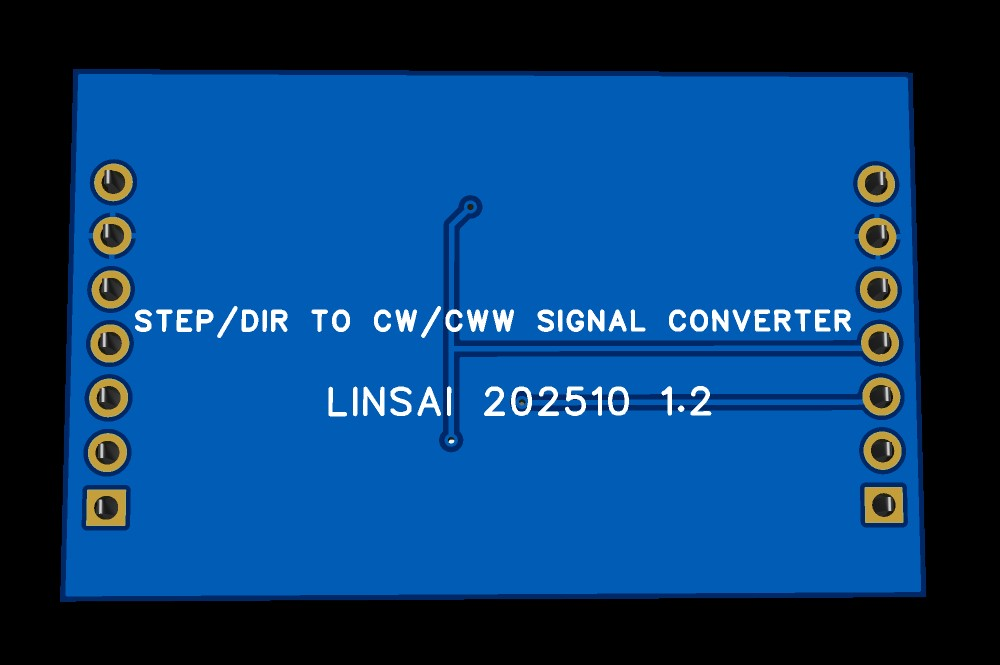
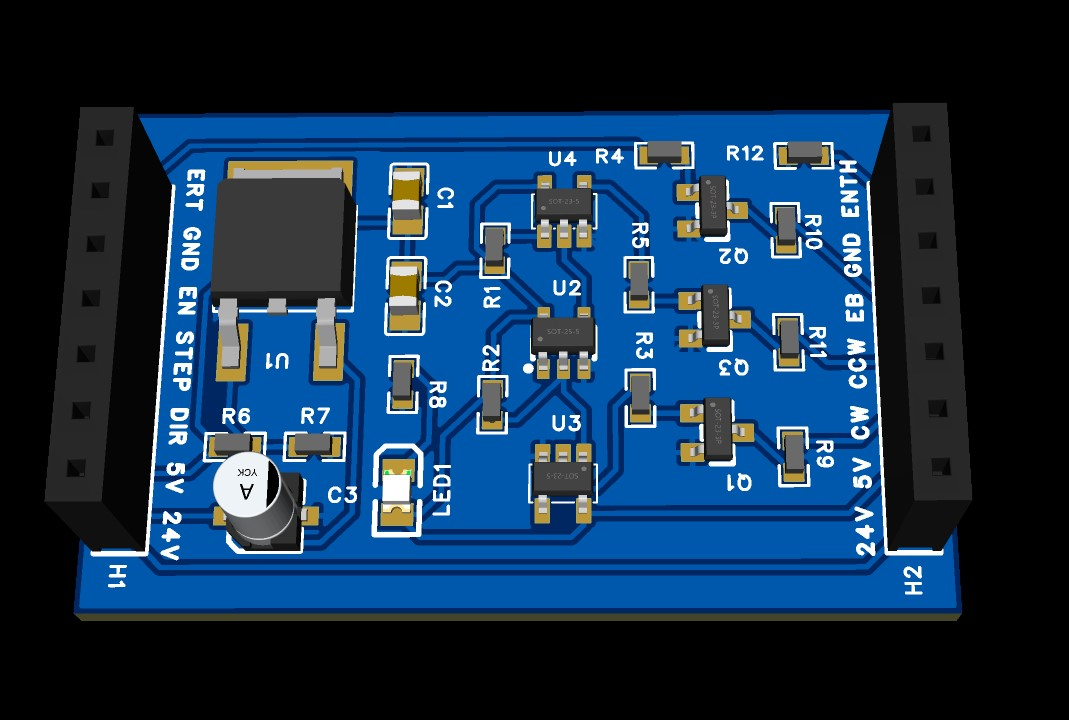
123

diff --git a/product-standalone-4axis-controller.html b/product-standalone-4axis-controller.html
@@ -3,7 +3,7 @@
 <head>
     <meta charset="UTF-8">
     <meta name="viewport" content="width=device-width, initial-scale=1.0">
-    <title>高压差分采样模块 | LINSAI</title>
+    <title>桌面激光加工机 | LINSAI</title>
     <style>
         /* ===== 全局样式 (保留原有并补充轮播图样式) ===== */
         * { margin:0; padding:0; box-sizing:border-box; }
@@ -223,7 +223,7 @@
         </div>
     </header>
 
-    <main class="container"> <!-- 添加container以对齐内容 -->
+    <main class="container">
         <div class="product-detail">
             <!-- 左侧：轮播图区域 (替换原单张图片) -->
             <div class="product-gallery">
@@ -240,33 +240,37 @@
 
             <!-- 右侧：产品信息 (完全保留) -->
             <div class="product-info">
-                <h1>高压差分采样模块</h1>
-                <p class="product-price-large">¥125,000</p>
+                <h1>桌面激光加工机</h1>
+                <p class="product-price-large">¥180,000</p>
                 <div class="product-description">
-                    <p>高電圧回路の電圧・電流を安全に測定するための差動サンプリングモジュール。オシロスコープやデータロガーと組み合わせて使用します。</p>
+                    <p>コンパクトなデスクトップ型レーザー加工機。アクリル、木材、皮革、紙などの非金属材料の切断・彫刻が可能です。</p>
+                    <p>初心者でも簡単に使えるソフトウェア付属。教育機関、個人クリエイター、試作開発に最適です。</p>
                 </div>
 
                 <div class="product-specs">
                     <h2>主な仕様</h2>
-                    <table class="spec-table"> <!-- 增加spec-table类 -->
-                        <tr><th>測定電圧範囲</th><td>±1000V（差動）</td></tr>
-                        <tr><th>帯域幅</th><td>DC～10MHz</td></tr>
-                        <tr><th>減衰比</th><td>100:1 / 1000:1 切替</td></tr>
-                        <tr><th>絶縁耐圧</th><td>2000V</td></tr>
+                    <table class="spec-table">
+                        <tr><th>レーザー出力</th><td>10W</td></tr>
+                        <tr><th>加工エリア</th><td>300×300 mm</td></tr>
+                        <tr><th>最大加工速度</th><td>200 mm/s</td></tr>
+                        <tr><th>解像度</th><td>1000 DPI</td></tr>
+                        <tr><th>対応ソフト</th><td>LightBurn、RDWorks</td></tr>
+                        <tr><th>寸法</th><td>500×500×200 mm</td></tr>
+                        <tr><th>重量</th><td>10 kg</td></tr>
                     </table>
                 </div>
 
                 <div class="product-description">
                     <h2>特長</h2>
-                    <ul style="margin-left:20px;"> <!-- 增加左内边距 -->
-                        <li>高精度測定（誤差1%未満）</li>
-                        <li>BNC出力で汎用機器に接続可能</li>
-                        <li>過電圧保護回路内蔵</li>
-                        <li>バッテリー駆動でノイズ低減</li>
+                    <ul style="margin-left:20px;">
+                        <li>卓上サイズで設置場所を選ばない</li>
+                        <li>エアアシスト標準装備で切断面がきれい</li>
+                        <li>赤色ポインターで加工位置をプレビュー</li>
+                        <li>オプションで回転軸ユニット追加可能（円筒彫刻）</li>
                     </ul>
                 </div>
 
-                <a href="products.html" class="back-link">← 製品一覧に戻る</a> <!-- 应用back-link类 -->
+                <a href="products.html" class="back-link">← 製品一覧に戻る</a>
             </div>
         </div>
     </main>
@@ -279,13 +283,13 @@
 
     <script>
         (function() {
-            // ===== 高压差分采样模块 图片配置 =====
-            // 按照要求使用 images/hv-differential-sampling/hv-differential-sampling-1.jpg 等
+            // ===== 桌面激光加工机 图片配置 =====
+            // 请根据实际图片文件名修改以下数组 (建议命名如 images/desktop-laser-1.jpg, desktop-laser-2.jpg, ...)
             const imageList = [
-                'images/hv-differential-sampling/hv-differential-sampling-1.jpg',   // 第一张图 (模块正面)
-                'images/hv-differential-sampling/hv-differential-sampling-2.jpg',   // 第二张图 (接口特写)
-                'images/hv-differential-sampling/hv-differential-sampling-3.jpg',   // 第三张图 (应用示例)
-                'images/hv-differential-sampling/hv-differential-sampling-4.jpg'    // 第四张图 (细节) — 可根据实际数量增减
+                'images/laser-machine/laser-machine-1.jpg',   // 第一张图 (产品正面)
+                'images/laser-machine/laser-machine-2.JPG',   // 第二张图 (工作示例)
+                'images/laser-machine/laser-machine-3.JPG',   // 第三张图 (软件界面)
+                'images/laser-machine/laser-machine-4.jpg'    // 第四张图 (加工样品) — 可根据实际数量增减
             ];
 
             // 轮播元素
@@ -309,7 +313,7 @@
                     slideDiv.className = 'carousel-slide';
                     const img = document.createElement('img');
                     img.src = src;
-                    img.alt = `高压差分采样模块 产品图 ${index + 1}`;
+                    img.alt = `桌面激光加工机 产品图 ${index + 1}`;
                     // 图片加载失败时显示占位提示 (可选)
                     img.onerror = function() { this.src = 'https://via.placeholder.com/600x400?text=Image+Not+Found'; };
                     slideDiv.appendChild(img);
